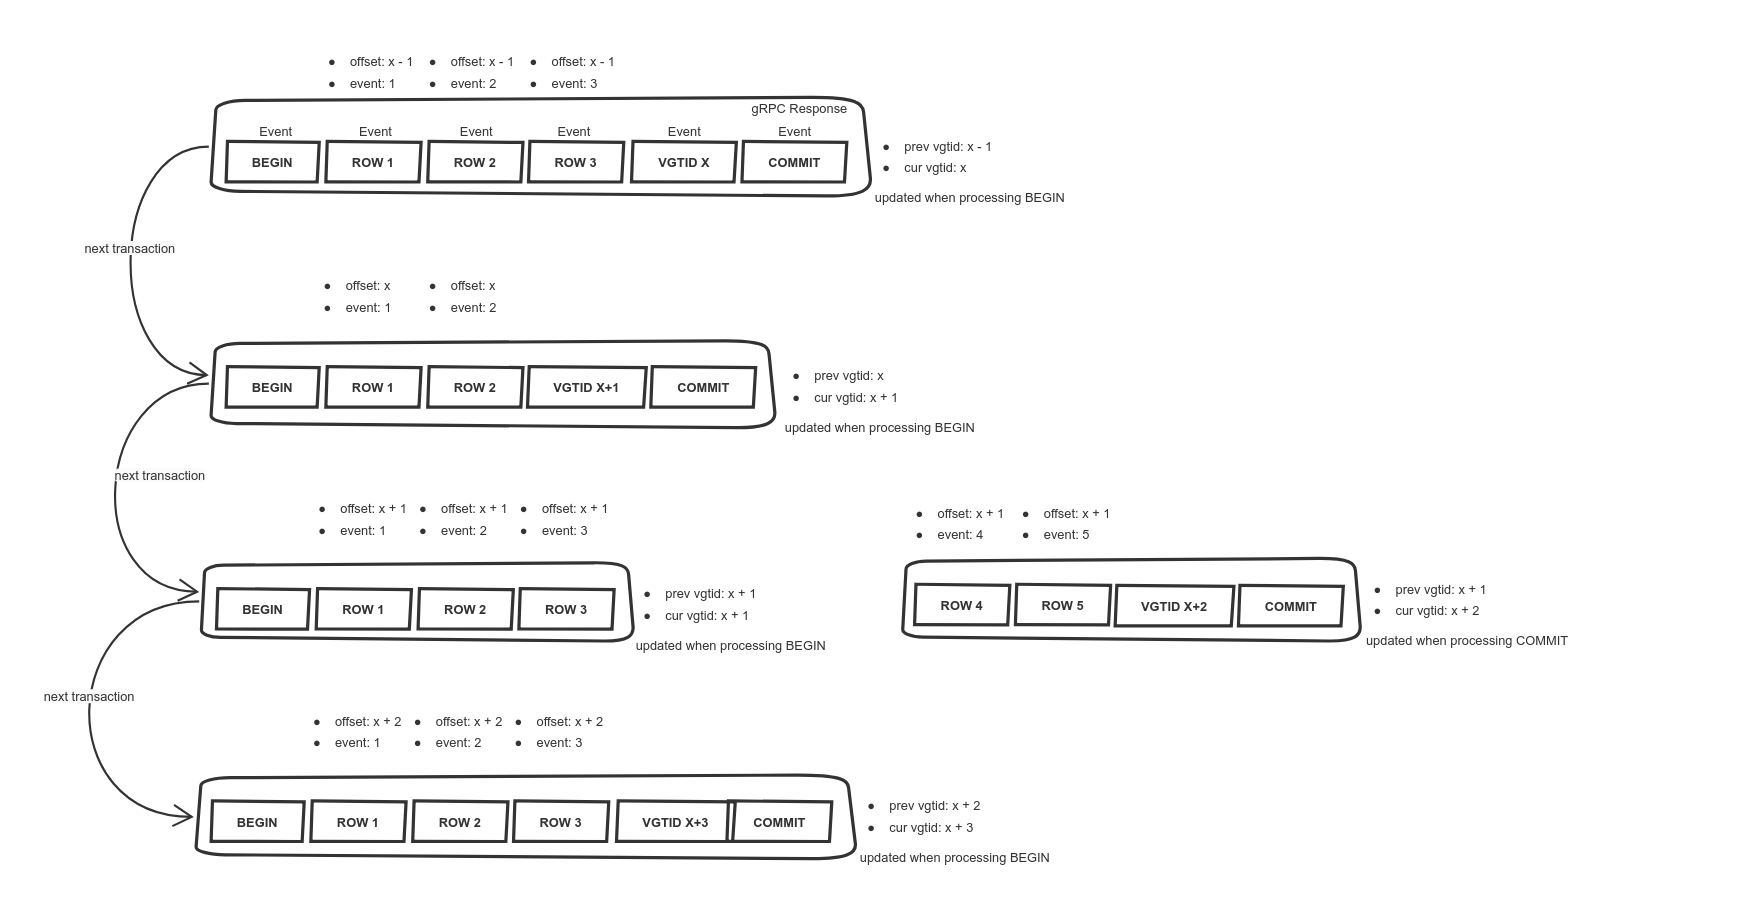
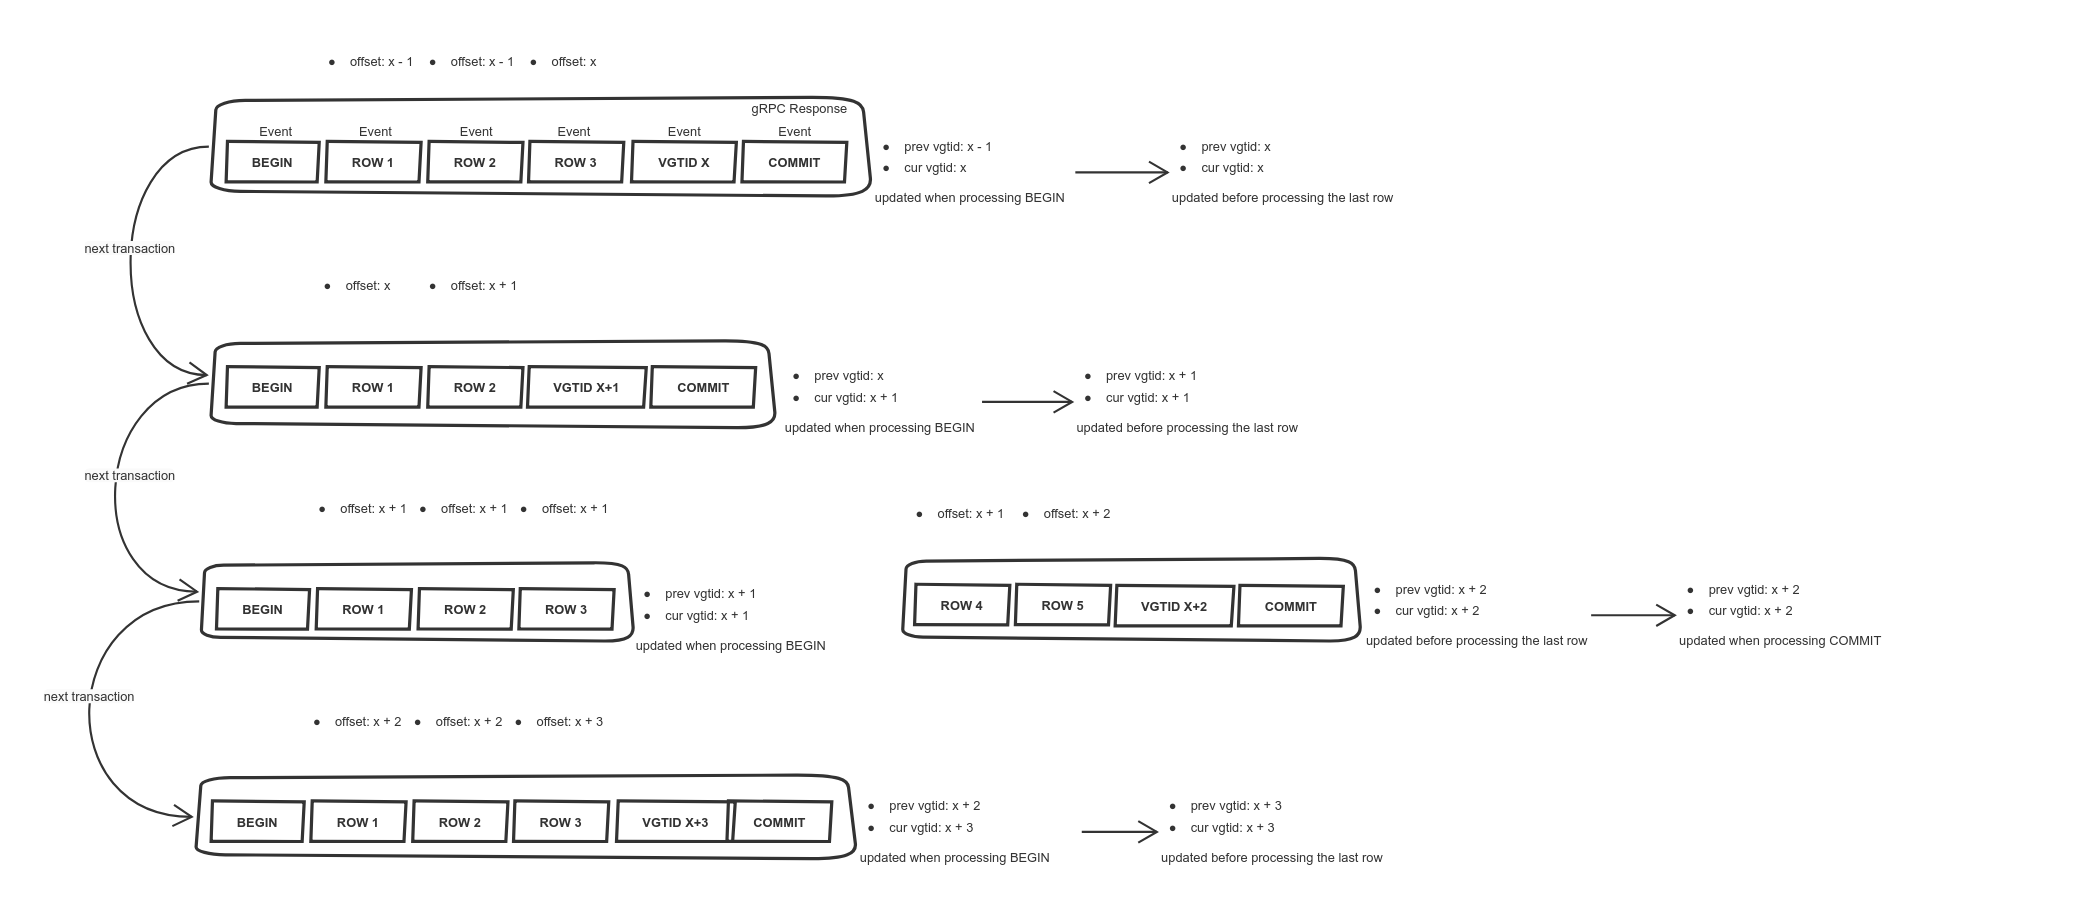
DBZ-2635 Update README

diff --git a/README.md b/README.md
@@ -19,14 +19,18 @@ E.g. the format of emitted messages may change, specific features may not be imp
 
 ## Supported Features
 
-- Get the current VGTID of a specific shard from VTCtld (via gRPC).
-- Constantly get data-changes of a specific shard or from all shards of the keyspace from VTGate (via gRPC, a.k.a VStream).
+- Constantly get data-changes of from all shards (or from a specific shard) of the keyspace from VTGate (via gRPC, a.k.a VStream).
+- One connector instance can subscribe to all shards of a given keyspace.
+- One connector instance can also choose to subscribe to only 1 shard. However, the vitess `Reshard` operation would be manual in this case.
+- Supoort vitess `Reshard` operation when subscribing to all shards of a given keyspace, no data loss, no data duplication.
+- Support vitess `MoveTables` operation, no data loss, no data duplication.
 - Each transaction has multiple events. All events in the transaction have the same VGTID.
 - Support basic MySQL type -> Kafka Connect type mapping.
 - Support AVRO/JSON connect converters.
 - Support extracting only the `after` struct of the message, by using `ExtractNewRecordState` single message transformation (SMT).
 - If for any reason, a message in a transaction fails the task, we can restart from the offset where it has left off.
-- If no previous offset exists, start from the current vgtid of the specified shard, or of all shards of the keyspace.
+- If no previous offset exists, start from the current vgtid.
+- Have at-least-once delivery guarantee. In most cases, data is delivered once. In case of immediate shutdown of the server, data could be delivered twice. 
 - Mapping vitess table to kafka topics (e.g. Mapping vitess table `product` in `commerce` keyspace to kafka topic `connect_vitess_customer_sharded.customer.customer`, `connect_vitess_customer_sharded` is the `database.server.name` connector config, the first `customer` is the keyspace, the second `customer` is the table's name)
 - Use async grpc stub for vstream service so that `ChangeEventSourceCoordinator` can be stopped gracefully
 - Some configurations supported out-of-the-box from Debezium Development Framework.
@@ -41,12 +45,10 @@ E.g. the format of emitted messages may change, specific features may not be imp
     - poll.interval.ms ✅
     - event.processing.failure.handling.mode ✅
     - converters ✅
-- Support vitess `MoveTables` workflow, no data loss, no data duplication.
 - Vitess Sequence tables also generate events, users can optionally filter them out by `table.exclude.list`.
 
 ## Future Improvements
 
-- Support vitess resharding operation
 - Add primary key to message. A workaround at the moment is using `message.key.columns` configuration.
 - Support for initial database snapshot
 - Support `decimal.handling.mode` configuration. (It was limited by VStream API, but now Vitess has added support for this.) 
@@ -75,8 +77,12 @@ would have 5 seconds to consume all expected `SourceRecord` before fail the test
 
 ## How Vitess Connector Works
 
-Each connector instance captures data-changes from a specific keyspace/shard.
-To get the initial (a.k.a. the current) vgtid position of the keyspace/shard, connectors communicate with the VTCtld.
+Each connector instance captures data-changes from all shards in a keyspace, or from a specific shard in a keyspace.
+
+If you subscribe to all shards, no VTCtld is needed to get the initial vgtid.
+![VitessAllShards](./documentation/assets/VitessAllShards.png)
+
+If you subscribe to a specific shard, connectors communicate with the VTCtld to get the initial (a.k.a. the current) vgtid position of the keyspace/shard.
 ![ConnectorShardMapping](./documentation/assets/ConnectorShardMapping.png)
 
 Internally, each connector constantly polls data-changes from VStream gRPC and send them to an in-memory queue.
@@ -256,8 +262,7 @@ The value is of format
 ```json
 {
     "transaction_id": null,
-    "vgtid": "<vgtid_in_json>",
-    "event":"<number_of_row_events_to_skip>"
+    "vgtid": "<vgtid_in_json>"
 }
 ```
 
@@ -265,15 +270,12 @@ E.g.
 ```json
 {
     "transaction_id": null,
-    "vgtid": "[{\"keyspace\":\"customer\",\"shard\":\"80-\",\"gtid\":\"MariaDB/0-54610504-45\"},{\"keyspace\":\"customer\",\"shard\":\"-80\",\"gtid\":\"MariaDB/0-1592148-41\"}]",
-    "event": 1
+    "vgtid": "[{\"keyspace\":\"customer\",\"shard\":\"80-\",\"gtid\":\"MariaDB/0-54610504-45\"},{\"keyspace\":\"customer\",\"shard\":\"-80\",\"gtid\":\"MariaDB/0-1592148-41\"}]"
 }
 ```
 
 allows the connector to start reading from `MariaDB/0-54610504-46` (inclusive) from the `80-` shard and `MariaDB/0-1592148-42`
 (inclusive) from the `-80` shard, from the `commerce` keyspace.
-The connector will skip 1 row-event as description by the `event`, it is because this row-event has already been processed
-and sent to the data topic.
 
 The following diagram shows how each record's offset is managed:
 ![Offsets](./documentation/assets/Offsets.png)
@@ -323,20 +325,23 @@ The vitess-connector supports this workflow. No data lose, nor data duplication 
 
 The entire history of the moved table will be replicated to another connector if the later is replicating from the target keyspace.
 
-## Vitess Resharding
+## Vitess Reshard
 
-This is not fully supported. You will get an error `Only 1 shard gtid per vgtid is allowed` from the connector who listens to the source shard `-`.
+Vitess's `Reshard` operation copies data from the source shards into the target shards, then remove the source shards.
 
-A few reasons why it is not supported yet:
+### Recommended way
+The vitess-connector automatically supports Reshard if it subscribes to all shards in the keyspace.
+No data lose, nor data duplication will happen during the reshard operation.
+After the `SwitchWrites` of the Reshard and before deleting the source shards, make sure that the connector is not down and the offset
+topic has the new VGTID from the target shards. Otherwise, if the source shards are already deleted, VStream will throw an error when reading 
+from the old VGTID from the source shards.
 
-- The current design of the connector's offset management supports only 1 shard_gtid at moment. The connector that listens to the `-` shard will receive VGTID event that contains multiple `shard_gtids` when resharding.
-- Upon connector restart, we need to subscribe to a vgtid with multiple `shard_gtids`, this way, we can start from where we left off from the entire keyspace.
-
-One manual way to support Vitess Reshard:
+### Manual way
+When subscribing to individual shard, we need to do the following manual steps for reshard.
 
 - Create 1 new connector per target shards, e.g. `commerce/-80` and `commerce/80-`. It is ok to run the new connector even before resharding.
 - Because they're new connectors, new topics will be created.
-- The source shard's connector `-` will keep sending events of all shards to old topics.
+- The source shard's connector `-` will keep sending events of all shards to old topics, until the source shard is removed.
 
 ## Contributing
 
